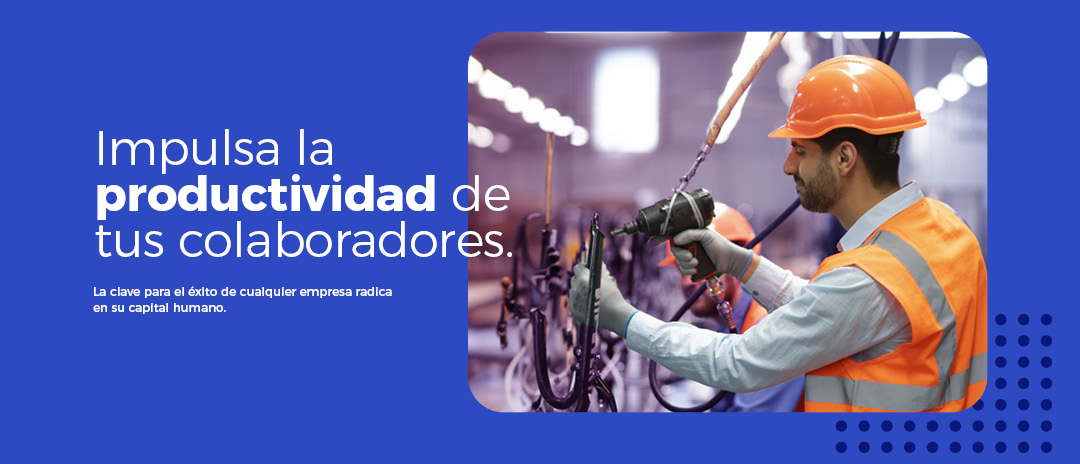
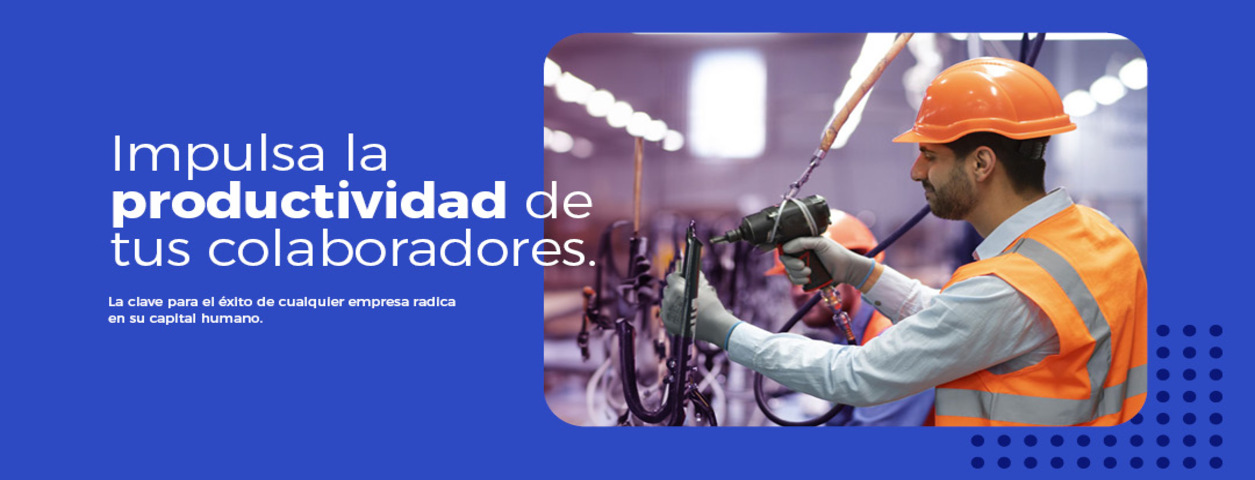
cambios 3 Merino 23012024

diff --git a/styles/style.css b/styles/style.css
@@ -1080,7 +1080,8 @@ p {
 	animation: sliders 20s infinite cubic-bezier(0.55, 0.48, 0.37, 0.92);
 }
 .celdassliders{
-	width: 34%
+	width: 100%;
+    margin-left: 1em;
 }
 .sliders img{
 	height: 93%;
@@ -1185,4 +1186,48 @@ p {
 }
 .banernosotros{
 	margin-top: 20em;
+}
+#slider1{
+	background-image: url(../img/slider1.jpg);
+	height: 48em;
+    width: 133.85em;
+}
+#slider2{
+	background-image: url(../img/slider2.jpg);
+	height: 48em;
+    width: 133.85em;
+}
+#slider3{
+	background-image: url(../img/slider3.jpg);
+	height: 48em;
+    width: 133.85em;
+}
+
+#btncontactanos{
+	margin-top: 27em;
+    margin-left: 14em;
+    width: 15em;
+    height: 3em;
+    background-color: #001c9bed;
+    border-radius: 4em;
+    color: white;
+    border: 3em;
+    font-weight: 550;
+}
+#btncontactanos:hover{
+	background-color: #0d4ee7;
+}
+#btncursos{
+	margin-top: 27em;
+    margin-left: 65em;
+    width: 15em;
+    height: 3em;
+    background-color: #001c9bed;
+    border-radius: 4em;
+    color: white;
+    border: 3em;
+    font-weight: 550;
+}
+#btncursos:hover{
+	background-color: #0d4ee7;
 }

diff --git a/index.html b/index.html
@@ -57,9 +57,9 @@
       <div class="contenedorslider">
         <div class="sliders">
           <ul>
-                <li class="celdassliders"><img src="img/slider1.jpg" alt=""></li>
-                <li class="celdassliders"><img src="img/slider2.jpg" alt=""></li>
-                <li class="celdassliders"><img src="img/slider3.jpg" alt=""></li>
+                <li class="celdassliders"><div id="slider1"><a href="#contact"><button id="btncontactanos">CONTÁCTANOS</button></a></div></li>
+                <li class="celdassliders"><div id="slider2"><a href="#texto2cursos"><button id="btncursos">VER CURSOS</button></div></li>
+                <li class="celdassliders"><div id="slider3"><a href="#contact"><button id="btncontactanos">CONTÁCTANOS</button></div></li>
             </ul>
           </div>
       </div>

diff --git a/cursos/estiloencabezado.css b/cursos/estiloencabezado.css
@@ -95,11 +95,7 @@ h1{
 	margin-bottom: 2em;
 	margin-top: 6em;
 	font-family: 'Segoe UI', Tahoma, Geneva, Verdana, sans-serif;
-<<<<<<< HEAD
 	width: 45%;
-=======
-	/*width: 45%;*/
->>>>>>> 5645901 (super)
 }
 
 .iconosrec{
@@ -212,30 +208,9 @@ text-decoration: none;
 
 #tituloeva{
 	color: #2E49E1;
-<<<<<<< HEAD
 	margin-left: 2em;
-=======
-	/*margin-left: 2em;*/
->>>>>>> 5645901 (super)
-}
-
-.regresarCurso {
-    background-color: #2E49E1;
-    border-radius: 5em;
-    height: 3em;
-    text-align: center;
-    width: 18%;
 }
 
 #regresarCurso {
     margin: 2% 40%;
-<<<<<<< HEAD
-=======
-}
-
-#btnRegresarCurso{
-	color: white;
-    text-decoration: none;
-    font-size: 1.16em;
->>>>>>> 5645901 (super)
 }

diff --git a/cursos/resultado.php b/cursos/resultado.php
@@ -44,18 +44,19 @@
     #customers th {
     padding-top: 12px;
     padding-bottom: 12px;
-    text-align: left;
+    text-align: center;
     background-color: #630ba3;
     color: white;
-    padding-left: 100px;
+    /*padding-left: 100px;*/
     }
     .my-button {
-    padding: 10px 20px;
+    padding: 1em 3em;
     background-color: #2E49E1;
     color: white;
     border: none;
-    border-radius: 5px;
+    border-radius: 5em;
     cursor: pointer;
+    font-weight: 550;
     }
 
     .my-button:hover {
@@ -120,12 +121,12 @@
 
 <body onload="deshabilitaRetroceso()">
 
-<div style="padding-top: 100px; ;" >
+<div style="padding-top: 4.5em;" >
 
 
-<div style="padding-top: 5em; padding-left: 1.2em;" >
+<div style="padding-top: 5em; padding-left: 7%;" >
 
-    <h1 id="tituloeva" style="text-align: center">Resultados</h1>
+    <h1 id="tituloeva" style="text-align: center; margin-right: 1.1em;">Resultados</h1>
             <table id="customers" >
             <tr>
                 <th>Usuario</th>
@@ -141,8 +142,8 @@
                 <td><?php echo ucwords($examendecurso)?></td>
 
                 <td><?php echo $numpreguntas?></td>
-                <td><?php echo $numCorrecta?></td>
-                <td><?php echo $numIncorrecta?></td>
+                <td><?php echo ($numCorrecta/10)?></td>
+                <td><?php echo ($numIncorrecta/10)?></td>
                <!--  <td></td> -->
                 <td><?php echo $intentost ?></td>
             </tr>

diff --git a/cursos/exam_aswer.php b/cursos/exam_aswer.php
@@ -4,7 +4,8 @@ require("../dev/conectar.php");
 
 date_default_timezone_set('America/Mexico_City');
 
-
+$dataresultado="";
+$inforesultado="";
 $idexamen=$_GET["idEx"];
 $idcurso=$_GET["idC"];
 $contadorpreguntas=0;
